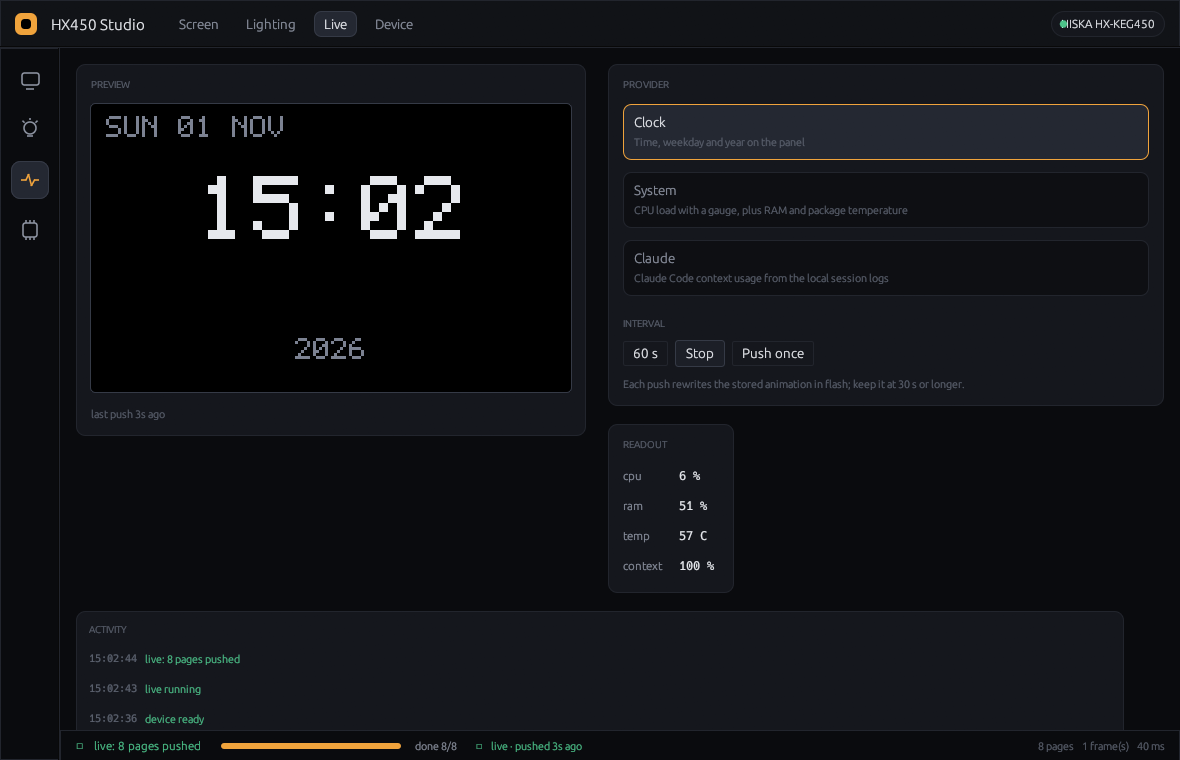
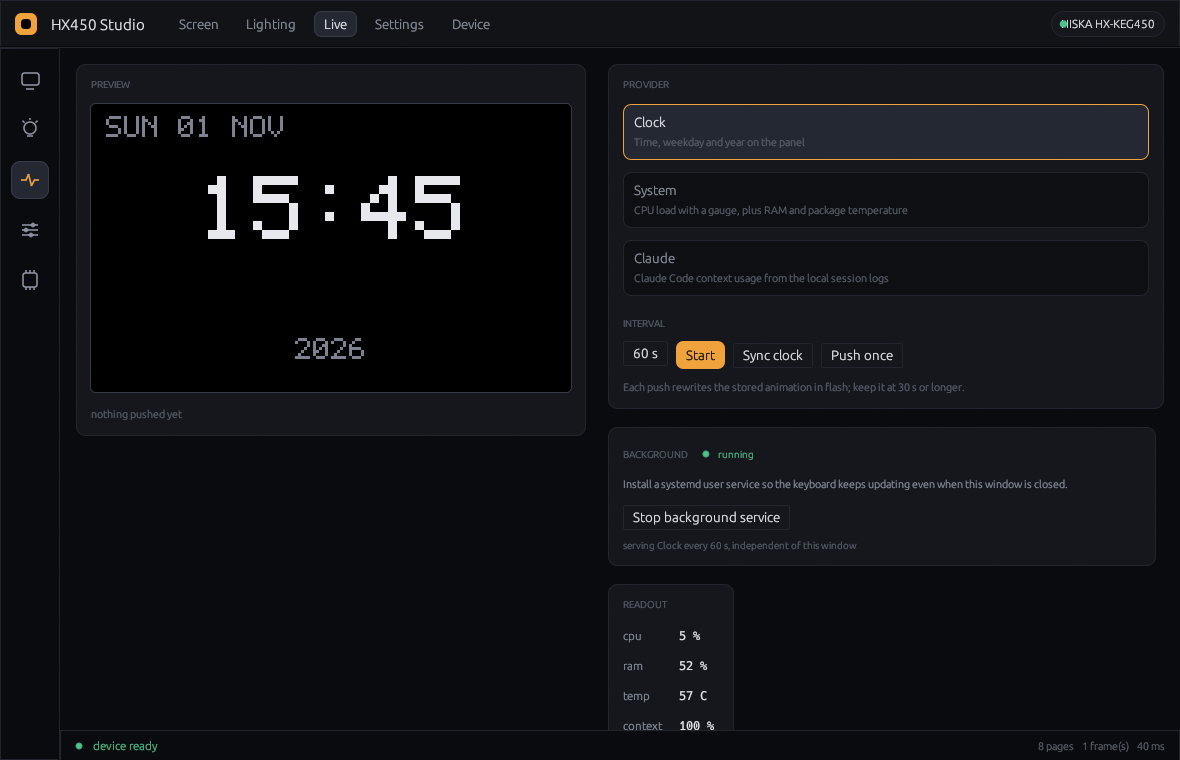
live: run in the background without the window open
Adds a --headless daemon mode and a one-click systemd --user service installer,
so nobody has to hand-write a unit file:

- hid::push_payload uploads one payload outside the UI worker
- service::install/uninstall writes hiska-keg450-live.service, daemon-reloads and
  enables it, pointing at this binary in --headless mode
- the Live view gains a BACKGROUND card showing the service state with install or
  stop, and the status dots are painted instead of relying on a missing glyph
- CLI flags: --headless, --install-service, --uninstall-service

diff --git a/src/main.rs b/src/main.rs
@@ -4,9 +4,12 @@ mod font;
 mod hid;
 mod live;
 mod model;
+mod service;
 mod theme;
 
 use std::time::{Duration, Instant};
+
+use chrono::Timelike;
 
 use eframe::egui::{
     self, Align, Align2, Color32, CornerRadius, FontId, Frame, Layout, Margin, Pos2, Rect, Sense,
@@ -92,6 +95,8 @@ struct App {
     metrics_at: Option<Instant>,
     log: Vec<(String, String, Tone)>,
     push_failures: u32,
+    service_active: bool,
+    service_checked: Option<Instant>,
 }
 
 impl App {
@@ -137,6 +142,8 @@ impl App {
             metrics_at: None,
             log: Vec::new(),
             push_failures: 0,
+            service_active: false,
+            service_checked: None,
         };
         app.worker.send(Command::Probe);
         app.live_preview = app.live_state.render(app.live_provider);
@@ -374,7 +381,7 @@ impl App {
                         Tone::Good => GOOD,
                         Tone::Bad => BAD,
                     };
-                    ui.label(egui::RichText::new("●").size(9.0).color(colour));
+                    status_dot(ui, colour);
                     ui.add_space(2.0);
                     ui.label(egui::RichText::new(&self.status).size(12.0).color(colour));
 
@@ -412,7 +419,7 @@ impl App {
                             ),
                             None => (WARN, "live · waiting for first push".to_string()),
                         };
-                        ui.label(egui::RichText::new("●").size(8.0).color(colour));
+                        status_dot(ui, colour);
                         ui.label(egui::RichText::new(text).size(11.0).color(colour));
                     }
 
@@ -1091,6 +1098,68 @@ impl App {
                     .corner_radius(CornerRadius::same(9))
                     .inner_margin(Margin::same(14))
                     .show(ui, |ui| {
+                        ui.set_min_width(ui.available_width() - 8.0);
+                        ui.horizontal(|ui| {
+                            ui.label(egui::RichText::new("BACKGROUND").size(10.0).color(TEXT_FAINT));
+                            ui.add_space(6.0);
+                            let (colour, label) = if self.service_active {
+                                (GOOD, "running")
+                            } else {
+                                (TEXT_FAINT, "off")
+                            };
+                            status_dot(ui, colour);
+                            ui.label(egui::RichText::new(label).size(10.0).color(colour));
+                        });
+                        ui.add_space(6.0);
+                        ui.label(
+                            egui::RichText::new(
+                                "Install a systemd user service so the keyboard keeps updating \
+                                 even when this window is closed.",
+                            )
+                            .size(11.0)
+                            .color(TEXT_DIM),
+                        );
+                        ui.add_space(8.0);
+                        if self.service_active {
+                            if ui.button("Stop background service").clicked() {
+                                match service::uninstall() {
+                                    Ok(()) => {
+                                        self.service_active = false;
+                                        self.set_status("background service stopped", Tone::Info);
+                                    }
+                                    Err(message) => self.set_status(message, Tone::Bad),
+                                }
+                            }
+                        } else if ui.button("Run in the background").clicked() {
+                            match service::install(self.live_provider, self.live_interval as u64) {
+                                Ok(()) => {
+                                    self.service_active = true;
+                                    self.set_status("background service installed", Tone::Good);
+                                }
+                                Err(message) => self.set_status(message, Tone::Bad),
+                            }
+                        }
+                        if self.service_active {
+                            ui.add_space(4.0);
+                            ui.label(
+                                egui::RichText::new(format!(
+                                    "serving {} every {} s, independent of this window",
+                                    self.live_provider.label(),
+                                    self.live_interval
+                                ))
+                                .size(10.0)
+                                .color(TEXT_FAINT),
+                            );
+                        }
+                    });
+
+                ui.add_space(12.0);
+                Frame::new()
+                    .fill(CARD)
+                    .stroke(Stroke::new(1.0_f32, BORDER))
+                    .corner_radius(CornerRadius::same(9))
+                    .inner_margin(Margin::same(14))
+                    .show(ui, |ui| {
                         ui.label(egui::RichText::new("READOUT").size(10.0).color(TEXT_FAINT));
                         ui.add_space(8.0);
                         match self.metrics {
@@ -1521,6 +1590,13 @@ impl eframe::App for App {
         self.refresh_textures(ctx);
         self.shortcuts(ctx);
 
+        if self
+            .service_checked
+            .is_none_or(|at| at.elapsed() > Duration::from_secs(3))
+        {
+            self.service_active = service::is_active();
+            self.service_checked = Some(Instant::now());
+        }
         if self.view == View::Live
             && self.metrics_at.is_none_or(|at| at.elapsed() > Duration::from_secs(1))
         {
@@ -1687,6 +1763,11 @@ fn slider_row(ui: &mut egui::Ui, label: &str, value: &mut u8, max: u8) {
     ui.spacing_mut().slider_width = previous;
 }
 
+fn status_dot(ui: &mut egui::Ui, colour: Color32) {
+    let (rect, _) = ui.allocate_exact_size(Vec2::new(8.0, 8.0), Sense::hover());
+    ui.painter().circle_filled(rect.center(), 3.0, colour);
+}
+
 fn metric_row(ui: &mut egui::Ui, label: &str, value: &str) {
     ui.label(egui::RichText::new(label).size(12.0).color(TEXT_DIM));
     ui.label(
@@ -1801,8 +1882,104 @@ fn accent_mark(painter: &egui::Painter, rect: Rect) {
     painter.rect_filled(inner, CornerRadius::same(3), Color32::BLACK);
 }
 
+/// `--headless`: push frames forever, no window. This is what the systemd unit runs.
+fn run_headless(provider: Provider, interval_secs: u64) -> ! {
+    let mut state = live::LiveState::new();
+    let interval = Duration::from_secs(interval_secs.max(10));
+    loop {
+        let frame = state.render(provider);
+        let payload = Screen::single(frame).encode();
+        match hid::push_payload(&payload) {
+            Ok(pages) => eprintln!(
+                "[{}] pushed {pages} pages for {}",
+                chrono::Local::now().format("%H:%M:%S"),
+                provider.label()
+            ),
+            Err(message) => eprintln!(
+                "[{}] push failed: {message}",
+                chrono::Local::now().format("%H:%M:%S")
+            ),
+        }
+        let wait = if provider == Provider::Clock {
+            let now = chrono::Local::now();
+            let secs: f64 = now.second() as f64 + now.timestamp_subsec_millis() as f64 / 1000.0;
+            Duration::from_secs_f64((62.0_f64 - secs).max(1.5_f64))
+        } else {
+            interval
+        };
+        std::thread::sleep(wait);
+    }
+}
+
 fn main() -> eframe::Result<()> {
     let args: Vec<String> = std::env::args().collect();
+
+    let provider_arg = |args: &[String]| -> Provider {
+        args.iter()
+            .position(|arg| arg == "--provider")
+            .and_then(|index| args.get(index + 1))
+            .map(|name| match name.as_str() {
+                "sys" | "system" => Provider::System,
+                "claude" => Provider::Claude,
+                _ => Provider::Clock,
+            })
+            .unwrap_or(Provider::Clock)
+    };
+    let interval_arg = |args: &[String]| -> u64 {
+        args.iter()
+            .position(|arg| arg == "--interval")
+            .and_then(|index| args.get(index + 1))
+            .and_then(|value| value.parse::<u64>().ok())
+            .unwrap_or(60)
+    };
+
+    if args.iter().any(|arg| arg == "--install-service") {
+        let provider = provider_arg(&args);
+        let interval = interval_arg(&args);
+        match service::install(provider, interval) {
+            Ok(()) => println!(
+                "installed {}.service -> {} every {interval}s\nwatch it: journalctl --user -u {}.service -f",
+                service::UNIT,
+                provider.label(),
+                service::UNIT
+            ),
+            Err(message) => {
+                eprintln!("install failed: {message}");
+                std::process::exit(1);
+            }
+        }
+        return Ok(());
+    }
+    if args.iter().any(|arg| arg == "--uninstall-service") {
+        match service::uninstall() {
+            Ok(()) => println!("stopped and removed {}.service", service::UNIT),
+            Err(message) => {
+                eprintln!("uninstall failed: {message}");
+                std::process::exit(1);
+            }
+        }
+        return Ok(());
+    }
+
+    if args.iter().any(|arg| arg == "--headless") {
+        let provider = args
+            .iter()
+            .position(|arg| arg == "--provider")
+            .and_then(|index| args.get(index + 1))
+            .map(|name| match name.as_str() {
+                "sys" | "system" => Provider::System,
+                "claude" => Provider::Claude,
+                _ => Provider::Clock,
+            })
+            .unwrap_or(Provider::Clock);
+        let interval = args
+            .iter()
+            .position(|arg| arg == "--interval")
+            .and_then(|index| args.get(index + 1))
+            .and_then(|value| value.parse::<u64>().ok())
+            .unwrap_or(60);
+        run_headless(provider, interval);
+    }
     let initial_view = args
         .iter()
         .position(|arg| arg == "--view")

diff --git a/src/service.rs b/src/service.rs
@@ -1,0 +1,86 @@
+//! systemd user-service management for the background live loop.
+//!
+//! One unit name, shared with the Python CLI: whichever tool installs last owns
+//! it, so there is never more than one pusher fighting over the keyboard.
+
+use std::path::PathBuf;
+use std::process::Command;
+
+use crate::live::Provider;
+
+pub const UNIT: &str = "hiska-keg450-live";
+
+fn service_name() -> String {
+    format!("{UNIT}.service")
+}
+
+pub fn unit_path() -> Option<PathBuf> {
+    let home = std::env::var_os("HOME")?;
+    Some(
+        PathBuf::from(home)
+            .join(".config/systemd/user")
+            .join(service_name()),
+    )
+}
+
+pub fn unit_contents(provider: Provider, interval: u64) -> String {
+    let exe = std::env::current_exe()
+        .map(|p| p.display().to_string())
+        .unwrap_or_else(|_| "hx450-studio".into());
+    format!(
+        "[Unit]\n\
+         Description=HISKA HX-KEG450 live display\n\
+         Documentation=https://github.com/securityvisions/hx450-studio\n\
+         After=default.target\n\
+         \n\
+         [Service]\n\
+         Type=simple\n\
+         ExecStart={exe} --headless --provider {} --interval {interval}\n\
+         Restart=always\n\
+         RestartSec=10\n\
+         \n\
+         [Install]\n\
+         WantedBy=default.target\n",
+        provider.cli_name()
+    )
+}
+
+fn systemctl(args: &[&str]) -> Result<(), String> {
+    let status = Command::new("systemctl")
+        .args(["--user"])
+        .args(args)
+        .status()
+        .map_err(|e| format!("cannot run systemctl: {e}"))?;
+    if status.success() {
+        Ok(())
+    } else {
+        Err(format!("systemctl --user {} failed", args.join(" ")))
+    }
+}
+
+pub fn is_active() -> bool {
+    Command::new("systemctl")
+        .args(["--user", "is-active", "--quiet", &service_name()])
+        .status()
+        .map(|s| s.success())
+        .unwrap_or(false)
+}
+
+pub fn install(provider: Provider, interval: u64) -> Result<(), String> {
+    let path = unit_path().ok_or("HOME is not set")?;
+    if let Some(parent) = path.parent() {
+        std::fs::create_dir_all(parent).map_err(|e| format!("cannot create {parent:?}: {e}"))?;
+    }
+    std::fs::write(&path, unit_contents(provider, interval))
+        .map_err(|e| format!("cannot write {path:?}: {e}"))?;
+    systemctl(&["daemon-reload"])?;
+    systemctl(&["enable", "--now", &service_name()])
+}
+
+pub fn uninstall() -> Result<(), String> {
+    let _ = systemctl(&["disable", "--now", &service_name()]);
+    if let Some(path) = unit_path() {
+        let _ = std::fs::remove_file(path);
+    }
+    systemctl(&["daemon-reload"])
+}

diff --git a/src/live.rs b/src/live.rs
@@ -36,6 +36,15 @@ impl Provider {
         }
     }
 
+    /// Name used on the command line and in the systemd unit.
+    pub fn cli_name(self) -> &'static str {
+        match self {
+            Provider::Clock => "clock",
+            Provider::System => "sys",
+            Provider::Claude => "claude",
+        }
+    }
+
     pub fn blurb(self) -> &'static str {
         match self {
             Provider::Clock => "Time, weekday and year on the panel",

diff --git a/src/hid.rs b/src/hid.rs
@@ -604,3 +604,11 @@ fn per_key_fill(
         Err(format!("per-key commit returned {commit}"))
     }
 }
+
+/// Upload one encoded payload without the worker (used by `--headless`).
+pub fn push_payload(payload: &[u8]) -> Result<usize, String> {
+    let api = HidApi::new().map_err(|e| format!("hidapi init failed: {e}"))?;
+    let device = locate(&api)?;
+    let (tx, _rx) = crossbeam_channel::unbounded();
+    upload(&device, payload, &tx, true)
+}

diff --git a/README.md b/README.md
@@ -83,6 +83,13 @@ was found. Click the chip to rescan.
 3. **Live** — choose a provider, set the interval (30 s or more), press
    **Start**. **Push once** sends a single frame.
 
+   **The window is not required.** In the Live view, *BACKGROUND → Run in the
+   background* installs a `systemd --user` unit (`hiska-keg450-live.service`)
+   that runs this same binary in `--headless` mode, so the keyboard keeps
+   updating after you close the app and after a reboot. The same unit can be
+   installed from the CLI (`live.py --install-service`); whichever tool installs
+   it last owns it, so there is never more than one pusher.
+
    The clock provider ignores the interval for scheduling and aligns itself to
    the **next minute boundary** (+1.2 s), so the panel flips within about a
    second of the minute changing instead of lagging behind. A failed push
@@ -91,6 +98,13 @@ was found. Click the chip to rescan.
    stall is impossible to miss.
 
 Keyboard shortcuts: `1`–`5` switch views, `U` uploads the timeline.
+
+```bash
+# the same background service, without opening a window
+./hx450-studio --install-service --provider clock --interval 60
+./hx450-studio --headless --provider sys --interval 30   # foreground daemon
+./hx450-studio --uninstall-service
+```
 
 ## How it talks to the keyboard
 
